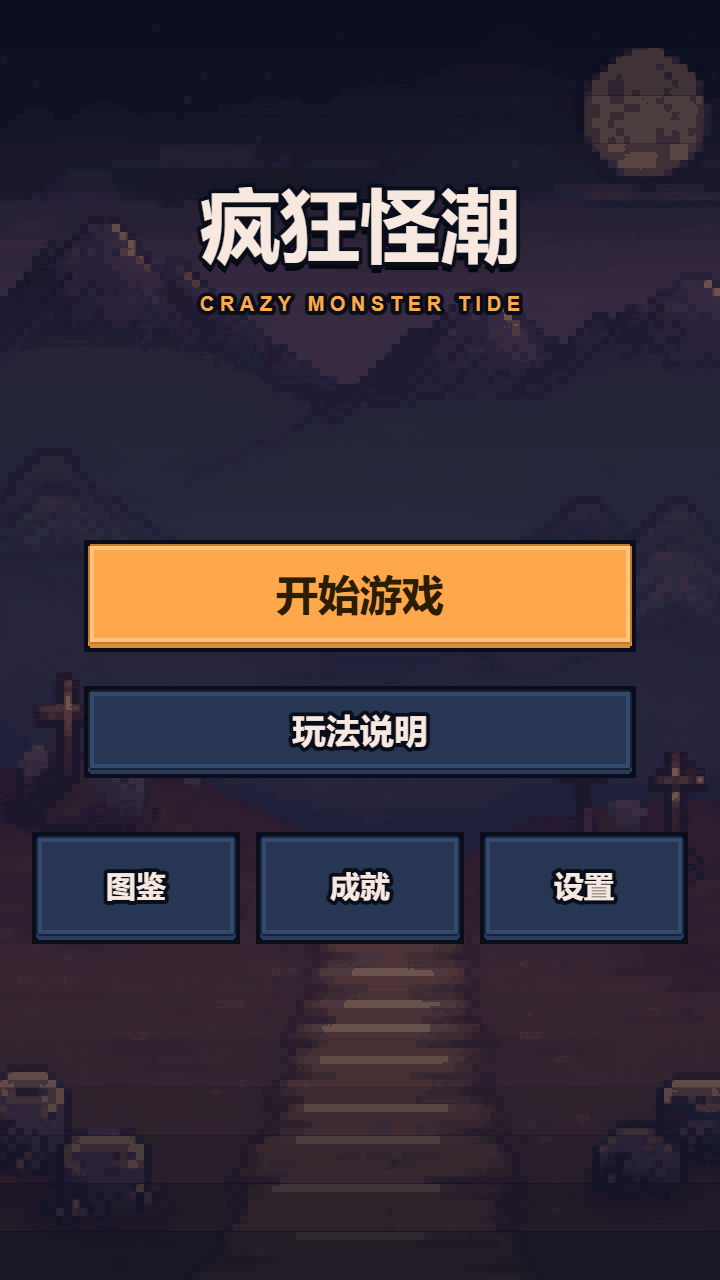
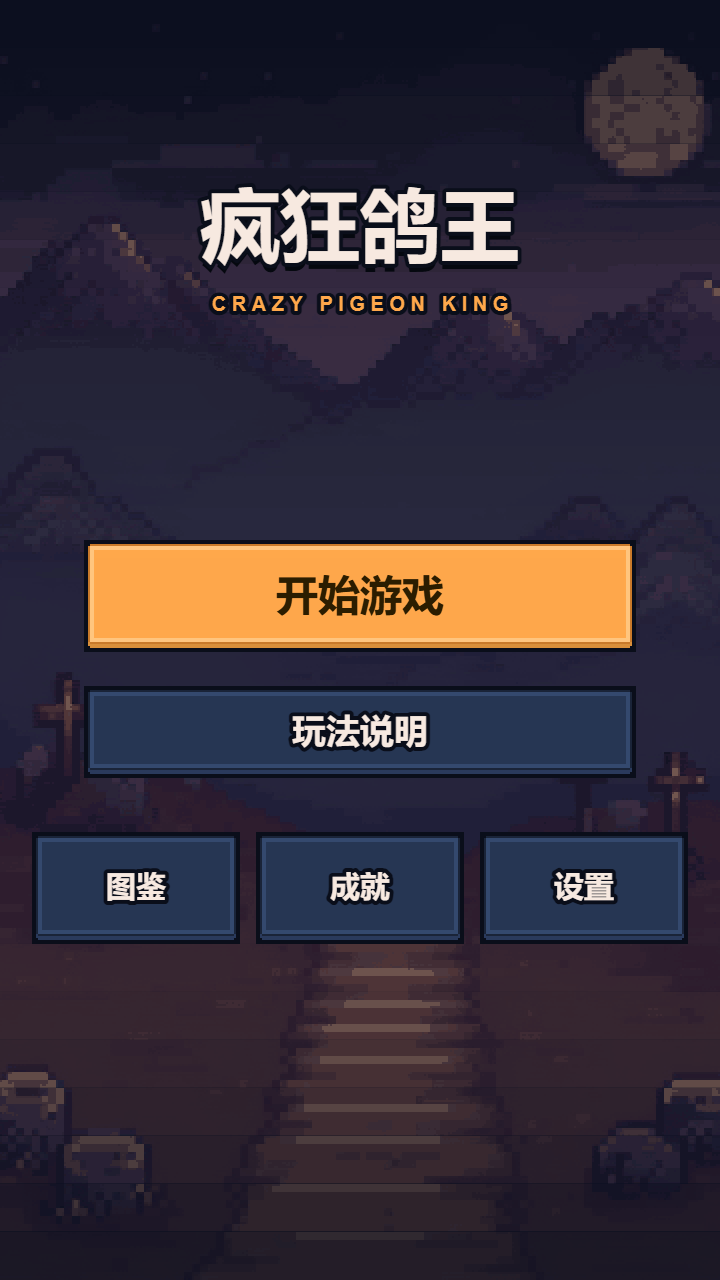
改名《疯狂鸽王》（含英文 CRAZY PIGEON KING）+ 正式 AppID wx8a25bc49632e9b92；构建脚本与配置同步

Changed region(s): [[0.275, 0.125, 0.7333, 0.25]]

diff --git a/prototype-html/index.html b/prototype-html/index.html
@@ -3,7 +3,7 @@
 <head>
 <meta charset="utf-8">
 <meta name="viewport" content="width=device-width,initial-scale=1,viewport-fit=cover,user-scalable=no">
-<title>疯狂怪潮 · HTML MVP（Möbelmon 式竖屏单手 UI）</title>
+<title>疯狂鸽王 · HTML MVP（Möbelmon 式竖屏单手 UI）</title>
 <link rel="stylesheet" href="src/tokens.css">
 <link rel="stylesheet" href="src/app.css">
 </head>
@@ -16,8 +16,8 @@
     <div class="mutebtn" id="btn-mute" title="音效开关">&#128266;</div>
     <div class="menuwrap">
       <div class="logo">
-        <div class="logoT">疯狂怪潮</div>
-        <div class="logoS">CRAZY MONSTER TIDE</div>
+        <div class="logoT">疯狂鸽王</div>
+        <div class="logoS">CRAZY PIGEON KING</div>
       </div>
       <div class="menubtns">
         <button class="btn big" id="btn-play">开始游戏</button>

diff --git a/docs/ui/mockups/v2/01-menu.html b/docs/ui/mockups/v2/01-menu.html
@@ -3,8 +3,8 @@
 <div class="ph">
   <div style="position:absolute;inset:0;background:radial-gradient(circle at 50% 30%,#3a3a52,#1e1e2a 70%)"></div>
   <div style="position:absolute;left:0;right:0;top:96px;text-align:center">
-    <div class="ttl ol" style="font-size:44px;letter-spacing:2px">疯狂怪潮</div>
-    <div class="ol" style="font-size:12px;color:#f5a623;letter-spacing:5px;margin-top:6px">CRAZY MONSTER TIDE</div>
+    <div class="ttl ol" style="font-size:44px;letter-spacing:2px">疯狂鸽王</div>
+    <div class="ol" style="font-size:12px;color:#f5a623;letter-spacing:5px;margin-top:6px">CRAZY PIGEON KING</div>
   </div>
   <div style="position:absolute;left:0;right:0;top:300px;display:flex;flex-direction:column;align-items:center;gap:14px">
     <div class="btn pri" style="width:250px;padding:15px 0;font-size:20px">开始游戏</div>

diff --git a/cocos/assets/scripts/ui/MenuScreens.ts b/cocos/assets/scripts/ui/MenuScreens.ts
@@ -89,9 +89,9 @@ export function buildMenu(parent: Node, seed: number, onStart: () => void, onHow
 
   // ── 标题区（从安全区往下排）──
   // 用户 2026-10-30：标题整体下移 24px（原来贴得太靠上）
-  text(root, 0, at2(180, S + 84).y, '疯狂怪潮',
+  text(root, 0, at2(180, S + 84).y, '疯狂鸽王',
     { size: 40, color: COL.cream, bold: true, width: 354, outline: true, shadow: true });
-  text(root, 0, at2(180, S + 124).y, 'C R A Z Y   M O N S T E R   T I D E',
+  text(root, 0, at2(180, S + 124).y, 'C R A Z Y   P I G E O N   K I N G',
     { size: 10, color: COL.accent, width: 354, bold: true, outline: true });
   // （用户 2026-10-30：去掉标题下那行小字，按钮整体上移）
   // ── 底部动作栈：**底部留白 = 标题上方留白**（用户要求上下呼吸感一致）

diff --git a/docs/ui/mockups/v2/00-design-system.html b/docs/ui/mockups/v2/00-design-system.html
@@ -1,7 +1,7 @@
 <!doctype html><html lang="zh-CN"><head><meta charset="utf-8">
 <title>design-system</title><link rel="stylesheet" href="style.css"></head><body>
 <div class="ph" style="background:#1a1a24;padding:14px">
-  <div class="ttl ol" style="font-size:19px;margin-bottom:10px">《疯狂怪潮》UI 设计系统 v2 · 土豆兄弟风</div>
+  <div class="ttl ol" style="font-size:19px;margin-bottom:10px">《疯狂鸽王》UI 设计系统 v2 · 土豆兄弟风</div>
   <div class="sub" style="margin-bottom:8px">深灰底 + 3px 纯黑描边 + 硬投影 + 高饱和色块 + 描边粗体字</div>
 
   <div style="font-size:12px;color:#FFD166;font-weight:bold;margin:10px 0 5px">色板</div>

diff --git a/cocos/tests/_gen_design.ts b/cocos/tests/_gen_design.ts
@@ -9,7 +9,7 @@ import { ENEMIES, BOSS_UNITS } from '../assets/scripts/data/Enemies';
 const L: string[] = [];
 const p = (s = '') => L.push(s);
 
-p('# 《疯狂怪潮》设计说明（供外部评审）');
+p('# 《疯狂鸽王》设计说明（供外部评审）');
 p('');
 p('> 自动生成：直接读取项目源码数据表，保证与实际运行一致。');
 p('> 游戏：竖屏像素风自动射击 roguelike；玩家只控制走位，4 个主动技能自动开火。');

diff --git a/docs/requirements.md b/docs/requirements.md
@@ -1,4 +1,4 @@
-# 《疯狂怪潮》游戏需求说明书 v0.2
+# 《疯狂鸽王》游戏需求说明书 v0.2
 
 > 本文件是**项目唯一正式需求来源**。任何实现以本文件为准；本文件有问题就记录问题（见 §12），**不得为了好实现而偷偷改需求**。
 >
@@ -12,7 +12,7 @@
 
 | 项 | 值 |
 |---|---|
-| 中文名 | **《疯狂怪潮》** |
+| 中文名 | **《疯狂鸽王》** |
 | 英文工程名 / 代号 | `crazy-monster-tide` |
 | 工程路径 | `H:\AI-game\crazy_monster_tide` |
 | 品类 | 竖屏 · 像素风 · 自动攻击割草 · 构筑向肉鸽 |
@@ -149,7 +149,7 @@ HTML/UI 迭代确认后，冻结 UI Spec，再在正式引擎中实现。
 
 ## 11. 命名与市场定位（2026-10-12 调研固化）
 
-**结论：中文名《疯狂怪潮》**，工程目录 `crazy_monster_tide`。
+**结论：中文名《疯狂鸽王》**，工程目录 `crazy_monster_tide`。
 
 调研依据（2026 年微信小游戏真实榜单）：
 
@@ -163,7 +163,7 @@ HTML/UI 迭代确认后，冻结 UI Spec，再在正式引擎中实现。
   5. `无尽 / 无限 + X`（无尽冬日、无限轮回）
   6. 口语短句（有种来闯关、解压来捞菜）
 
-**《疯狂怪潮》** 命中句式 1 + 直指本作核心内容（怪潮 + 割草），4 字好记、好喊、无生僻字、与现有产品不重名（已检索无同名游戏）。
+**《疯狂鸽王》** 命中句式 1 + 直指本作核心内容（怪潮 + 割草），4 字好记、好喊、无生僻字、与现有产品不重名（已检索无同名游戏）。
 
 上线前仍需执行（未完成，见 §12）：
 1. 微信小游戏平台名称查重；
@@ -210,4 +210,4 @@ HTML/UI 迭代确认后，冻结 UI Spec，再在正式引擎中实现。
 | Q3 | ~~世界观包装~~ | 美术/文案 | ✅ 已确认：像素奇幻（D-08） |
 | Q4 | 局外成长（角色解锁 / 永久升级）首版是否上线 | 系统范围 | 待确认 |
 | Q5 | 首版是否需要商业化（广告位 / 内购）与合规文案 | 发布 | 待确认 |
-| Q6 | ~~中文名~~ | 品牌 | ✅ 已确认：《疯狂怪潮》（D-01）；上线前仍需平台查重 + 商标检索 |
+| Q6 | ~~中文名~~ | 品牌 | ✅ 已确认：《疯狂鸽王》（D-01）；上线前仍需平台查重 + 商标检索 |

diff --git a/docs/ui-redesign/delivery_report.md b/docs/ui-redesign/delivery_report.md
@@ -1,6 +1,6 @@
 # UI 专项改造 · 交付报告
 
-> 项目：《疯狂怪潮》`H:\AI-game\crazy_monster_tide`（Cocos Creator 3.8.6，竖屏 360×640）
+> 项目：《疯狂鸽王》`H:\AI-game\crazy_monster_tide`（Cocos Creator 3.8.6，竖屏 360×640）
 > 日期：2026-10-28　｜　范围：只改 UI 表现层，未动任何战斗 / 数值 / 掉落 / 经济逻辑
 > 配套文档：`ui_pages_v2.md`（逐页说明）、`asset_usage_manifest.md`（素材与授权）、`ui_credits.md`
 
@@ -14,7 +14,7 @@
 构建通过、单测 111 PASS、三档视口各 12 张实机截图、真实点击冒烟通过。
 
 > ⚠ **必须先说的冲突**：任务包 `02_UI页面布局与尺寸规范.md` 按 **1280×720 横屏**设计，
-> 但它描述的是另一个项目（《像素共鸣：远征》）；本工程是 **360×640 竖屏**的《疯狂怪潮》，
+> 但它描述的是另一个项目（《像素共鸣：远征》）；本工程是 **360×640 竖屏**的《疯狂鸽王》，
 > 没有路线 / 图鉴 / 转职。按任务书自身的最高优先原则（"保护当前功能、先检查实际项目、只改 UI、不虚构功能"），
 > 本次**保留竖屏**、只改已有页面、把横屏规格的"结构意图"重排到竖屏。详见 `ui_pages_v2.md` §0。
 

diff --git a/docs/ui-redesign/ui_pages_v2.md b/docs/ui-redesign/ui_pages_v2.md
@@ -1,6 +1,6 @@
 # UI 页面实现说明（v2 · 像素共鸣专项改造）
 
-> 项目：《疯狂怪潮》（crazy_monster_tide，Cocos Creator 3.8.6）　｜　日期：2026-10-28
+> 项目：《疯狂鸽王》（crazy_monster_tide，Cocos Creator 3.8.6）　｜　日期：2026-10-28
 > 上游规格：`docs/ui-redesign/02_UI页面布局与尺寸规范.md`（1280×720 横屏参考稿）
 > 本文记录**实际工程里的落地结果**：每一页的区域、尺寸、绑定数据、交互入口、适配方式。
 
@@ -12,7 +12,7 @@
 
 | 项 | 规格文档假设 | 本工程实际 | 处理 |
 |---|---|---|---|
-| 项目名 | 《像素共鸣：远征》 | 《疯狂怪潮》（包名 `crazy_monster_tide`） | 以**实际工程**为准 |
+| 项目名 | 《像素共鸣：远征》 | 《疯狂鸽王》（包名 `crazy_monster_tide`） | 以**实际工程**为准 |
 | 屏幕 | 横屏 1280×720 | **竖屏 360×640**（`FIXED_WIDTH`，见 `docs/ui/screen_specs.md`） | **保留竖屏**，把横屏的"区域关系"重排成竖屏 |
 | 页面 | 9 页，含路线 / 图鉴 / 转职 | 11 个已实现界面（无路线、无图鉴、无转职） | **不虚构**，只改已有页面 |
 | 技能槽 | 4 个 | 4 个（一致） | — |

diff --git a/docs/ui/reference-library/self-critic-vlm.md b/docs/ui/reference-library/self-critic-vlm.md
@@ -7,7 +7,7 @@
 ## 375x812-1-charselect.png
 
 ```
-1) 这是《疯狂怪潮》游戏的界面，玩家可以在这里选择角色并查看其技能和属性。玩家需要点击“开始逃命”按钮来开始游戏。
+1) 这是《疯狂鸽王》游戏的界面，玩家可以在这里选择角色并查看其技能和属性。玩家需要点击“开始逃命”按钮来开始游戏。
 
 2) 信息层级清晰。角色头像、技能名称和描述、天赋效果、初始技能和属性等信息都清晰地展示出来。没有元素互相挡住或重叠的情况。
 
@@ -99,7 +99,7 @@
 ## 390x844-1-charselect.png
 
 ```
-1) 这是《疯狂怪潮》游戏的界面，玩家可以在这里选择角色并查看其技能和属性。玩家需要点击“开始逃命”按钮来开始游戏。
+1) 这是《疯狂鸽王》游戏的界面，玩家可以在这里选择角色并查看其技能和属性。玩家需要点击“开始逃命”按钮来开始游戏。
 
 2) 信息层级清晰。角色头像、技能名称和描述、天赋效果、初始技能和属性都分别展示在不同的区域，没有元素互相挡住或重叠。
 

diff --git a/docs/ui-redesign/ui_visual_m1.md b/docs/ui-redesign/ui_visual_m1.md
@@ -23,7 +23,7 @@
 | 区域 | 实现 | 数据/交互 |
 |---|---|---|
 | 背景 | `home-bg-360x640` cover 缩放（不拉伸）；上下各 8 段等宽暗角（像素风不用模糊） | 静态 |
-| 标题 | `疯狂怪潮` 40px，`y = S+60`；副标题 10px 橙色加宽字距，`S+100` | 静态 |
+| 标题 | `疯狂鸽王` 40px，`y = S+60`；副标题 10px 橙色加宽字距，`S+100` | 静态 |
 | 主视觉 | `CHARS[0]` 立绘（`Assets.loadPortrait`）整数倍放大到高 120~138，`x` 补 +7 抵消剑的视觉偏移；失败 → idle 首帧；再失败 → 静默不显示（**不放彩色占位块**） | 只读 |
 | 卖点条 | 3 个 100×30 信息块（`panel_soft`）：`4 个主动技能` / `黑科技构筑` / `20 波挑战`，10px | 静态，**不可点** |
 | 主 CTA | 276×56 橙色，中心 `S + (VH-S-B)×0.655`（640 下 ≈422） | `onStart()` → 角色选择 |

diff --git a/docs/assets/asset_candidates.md b/docs/assets/asset_candidates.md
@@ -38,7 +38,7 @@
 | 那批怪物（95 个动画表）、玩家单位（113 表）、Boss 立绘、音效 | 全部来自 **`Slotbound`（商业游戏，Steam AppID 4459590）的解包** |
 | 母本自己的审计结论 | `status = internal-use-only`；**禁商用 / 禁再分发 / 禁进 git / 禁入发布包** |
 | 母本为什么能用 | 母本定性为「**学习/内部演示，不发布**」（其 `D-ASSET-001 = D`） |
-| **我们的处境不同** | 《疯狂怪潮》目标是**微信小游戏（要上架）** → **这批素材一个都不能用** |
+| **我们的处境不同** | 《疯狂鸽王》目标是**微信小游戏（要上架）** → **这批素材一个都不能用** |
 
 > 这正是素材门禁存在的意义：**如果不盘，我们会在 Cocos 里用着解包素材做完整款游戏，然后在上架前发现全部要换。**
 
